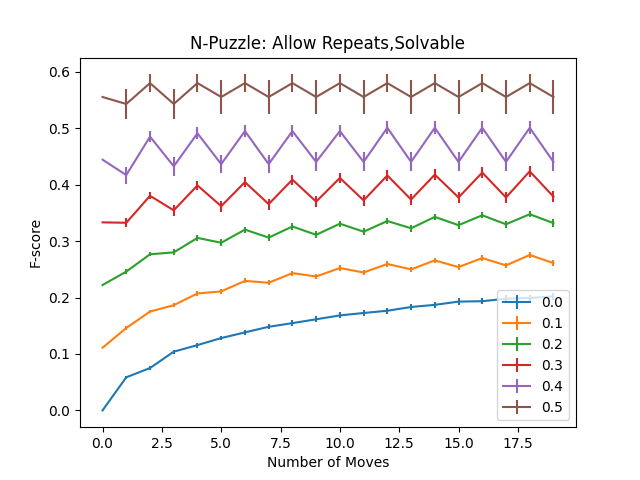
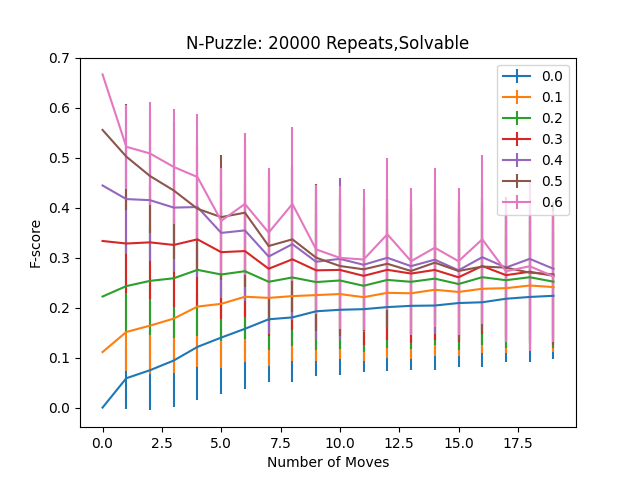
running with error bars

diff --git a/n-puzzle/n-puzzle.py b/n-puzzle/n-puzzle.py
@@ -335,7 +335,7 @@ def get_mult_puzzle_results(num_traps, artificial_start_traps = True, num_splits
         y_error = []
         for j in range(depth):
             standard_deviation = np.std(results_per_depth[i][j])
-            error = standard_deviation/ math.sqrt(len(results_per_depth[i][j]))
+            error = standard_deviation# / math.sqrt(len(results_per_depth[i][j]))
             y_error +=[error]
         if plot: 
             #plt.plot(data, label=str(label))
@@ -364,6 +364,7 @@ def get_mult_puzzle_results(num_traps, artificial_start_traps = True, num_splits
         plt.xlabel('Number of Moves')
         plt.ylabel('F-score')
         title = "N-Puzzle: "
+        title += str(num_traps) + " "
         if(allow_repeats): title += "Allow Repeats,"
         else: title += "Repeats,"
         if(is_solvable): title += "Solvable"
@@ -413,7 +414,7 @@ def run():
 
     
 
-get_mult_puzzle_results(2000, plot=True,num_splits=10)
+get_mult_puzzle_results(20000, plot=True,num_splits=10, allow_repeats=False)
 
 
     #we can only move 0, and we want to see the probability tree of the configuration
